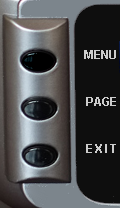
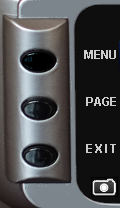
Small bug fixes and screenshot function for X9DA

Changed region(s): [[0.75, 0.8365, 0.975, 0.9519]]

diff --git a/trunk/src/comparedialog.cpp b/trunk/src/comparedialog.cpp
@@ -1627,7 +1627,7 @@ void compareDialog::printFrSky()
   str.append("<td align=\"center\">&lt;</td>");
   color=getColor2(fd1->rssiAlarms[1].value,fd2->rssiAlarms[1].value);
   str.append("<td align=\"center\"><font color="+color+">"+QString::number(fd2->rssiAlarms[1].value,10)+"</td>");
-  str.append("</table>");
+  str.append("</table></br>");
 
     if (GetEepromInterface()->getCapability(TelemetryBars) || GetEepromInterface()->getCapability(TelemetryCSFields)) {
     for (int j=0; j<GetEepromInterface()->getCapability(TelemetryCSFields)/8; j++) {
@@ -1645,7 +1645,7 @@ void compareDialog::printFrSky()
         }
         str.append("</table>");
       } else {
-        str.append("<table border=1 cellspacing=0 cellpadding=1 width=\"100%\"><tr><td colspan=4 align=\"Left\"><b><font color="+color+">"+tr("Telemetry Bars")+"</b></td></tr>");
+        str.append("<br><table border=1 cellspacing=0 cellpadding=1 width=\"100%\"><tr><td colspan=4 align=\"Left\"><b><font color="+color+">"+tr("Telemetry Bars")+"</b></td></tr>");
         str.append("<tr><td  align=\"Center\"><b>"+tr("Bar Number")+"</b></td><td  align=\"Center\"><b>"+tr("Source")+"</b></td><td  align=\"Center\"><b>"+tr("Min")+"</b></td><td  align=\"Center\"><b>"+tr("Max")+"</b></td></tr>");
         for (int i=0; i<4; i++) {
           str.append("<tr><td  align=\"Center\"><b>"+QString::number(i+1,10)+"</b></td>");

diff --git a/trunk/src/xcursorwidget.h b/trunk/src/xcursorwidget.h
@@ -56,8 +56,8 @@ class xcursorWidget : public QWidget {
           else if (pnpoly(6,p3x,p3y,(float)x,(float)y)==1) {
             setStyleSheet("background:url(:/images/x9l3.png);");
             emit buttonPressed(Qt::Key_Escape);
-          } else if (sqrt(((float)x-22)*((float)x-22)+((float)y-165)*((float)y-165))<17) {
-            setStyleSheet("background:url(:/images/x9l0.png);");
+          } else if ((x>90 && x<118) && (y>177 && y<197)) {
+            setStyleSheet("background:url(:/images/x9l4.png);");
             emit buttonPressed(Qt::Key_Print);
           }
         }

diff --git a/trunk/src/generaledit.cpp b/trunk/src/generaledit.cpp
@@ -65,6 +65,10 @@ GeneralEdit::GeneralEdit(RadioData &radioData, QWidget *parent) :
       ui->hideNameOnSplashChkB->hide();
       ui->label_hideOwnerName->hide();      
     }
+    if (!GetEepromInterface()->getCapability(HasInputFilter)) {
+      ui->inputfilterCB->hide();
+      ui->inputfilterLabel->hide();
+    }
     if (GetEepromInterface()->getCapability(PerModelThrottleWarning)) {
       ui->thrwarnChkB->setDisabled(true);
       ui->thrwarnChkB->hide();

diff --git a/trunk/src/ersky9xinterface.cpp b/trunk/src/ersky9xinterface.cpp
@@ -288,6 +288,8 @@ int Ersky9xInterface::getCapability(const Capability capability)
       return 1;
     case OwnerName:
       return 10;
+    case HasInputFilter:
+      return 1;
     case ModelVoice:
       return 1;
     case Timers:

diff --git a/trunk/src/er9xinterface.cpp b/trunk/src/er9xinterface.cpp
@@ -303,6 +303,8 @@ int Er9xInterface::getCapability(const Capability capability)
       return 2;
     case ModelVoice:
       return 1;
+    case HasInputFilter:
+      return 1;
     case VoicesAsNumbers:
       return 1;
     default:

diff --git a/trunk/src/th9xinterface.cpp b/trunk/src/th9xinterface.cpp
@@ -205,6 +205,8 @@ int Th9xInterface::getCapability(const Capability capability)
       return 4;
     case Simulation:
       return 1;
+    case HasInputFilter:
+      return 1;
     case CSFunc:
       return 13;      
     default:

diff --git a/trunk/src/eeprominterface.h b/trunk/src/eeprominterface.h
@@ -780,6 +780,7 @@ enum Capability {
  ExtraTrims,
  ExtendedTrims,
  HasNegCurves,
+ HasInputFilter,
  HasExpoCurves,
  ExpoIsCurve,
  ExpoCurve5,
